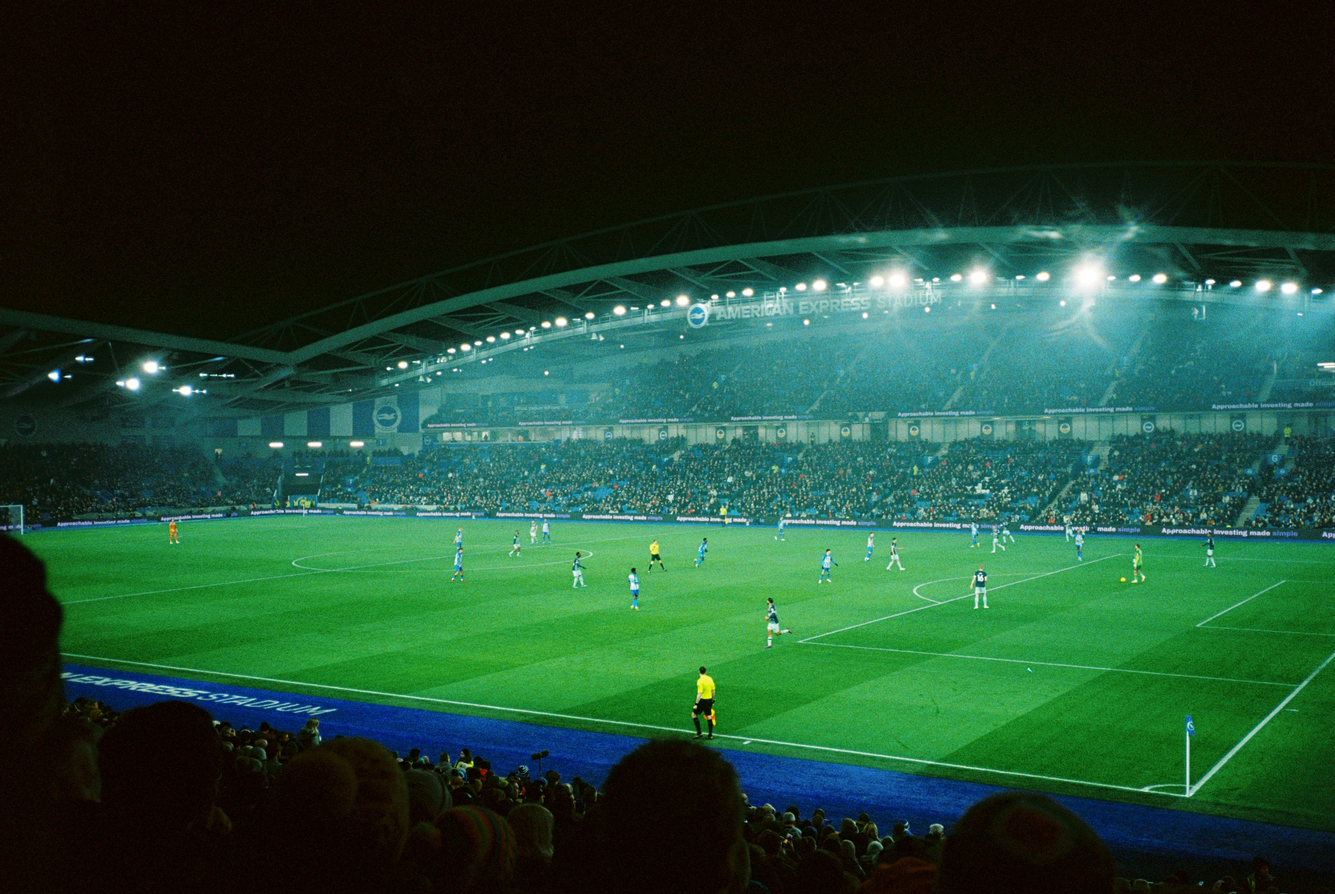
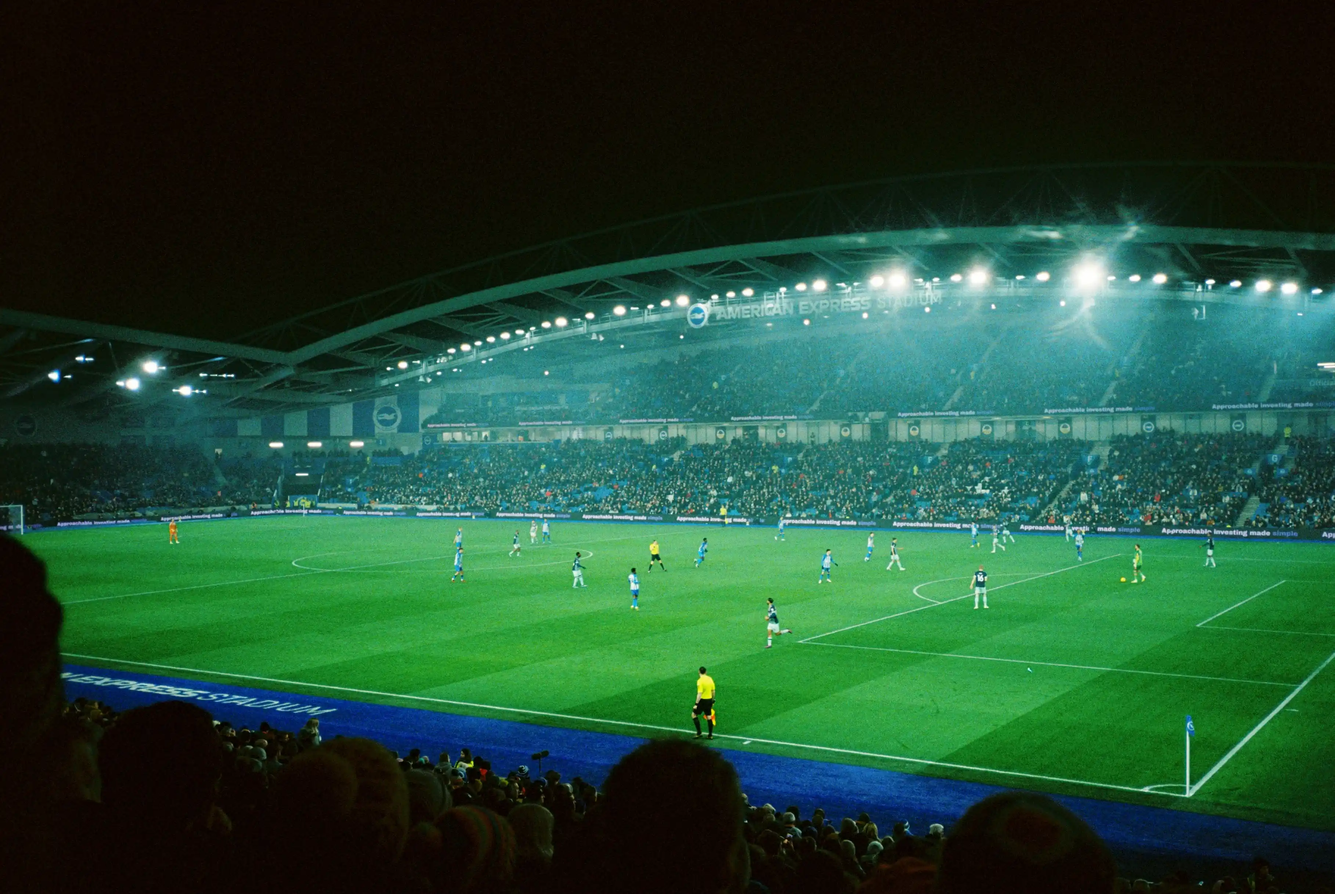
compress images

diff --git a/index.html b/index.html
@@ -73,7 +73,7 @@
                     </h2>
                     <div class="services__container">
                         <div class="services__card">
-                            <img class="services__card-img" src="./assets/team.jpg" alt="Crea tu equipo" />
+                            <img class="services__card-img" src="./assets/team_2.webp" alt="Crea tu equipo" />
                             <div class="services__card__content">
                                 <h3 class="services__card-title">Crea tu equipo</h3>
                                 <p class="services__card-text">Crea tu propio equipo de fútbol, personalízalo e invita a
@@ -89,7 +89,7 @@
                             </div>
                         </div>
                         <div class="services__card">
-                            <img class="services__card-img" src="./assets/search.jpg" alt="Crea tu equipo" />
+                            <img class="services__card-img" src="./assets/search.webp" alt="Crea tu equipo" />
                             <div class="services__card__content">
                                 <h3 class="services__card-title">Juega</h3>
                                 <p class="services__card-text">¿Eres tan bueno como piensas? Juega y demuéstralo.</p>
